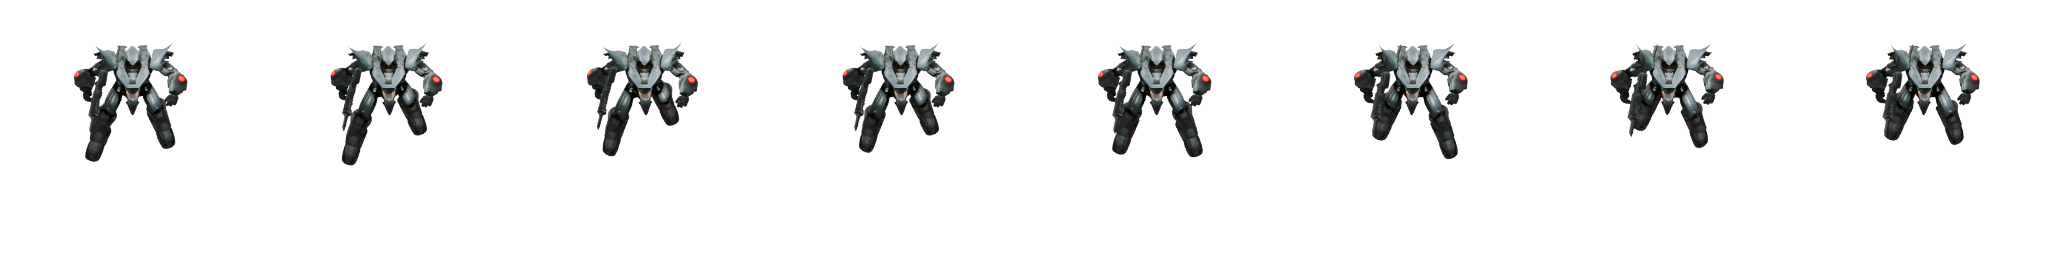
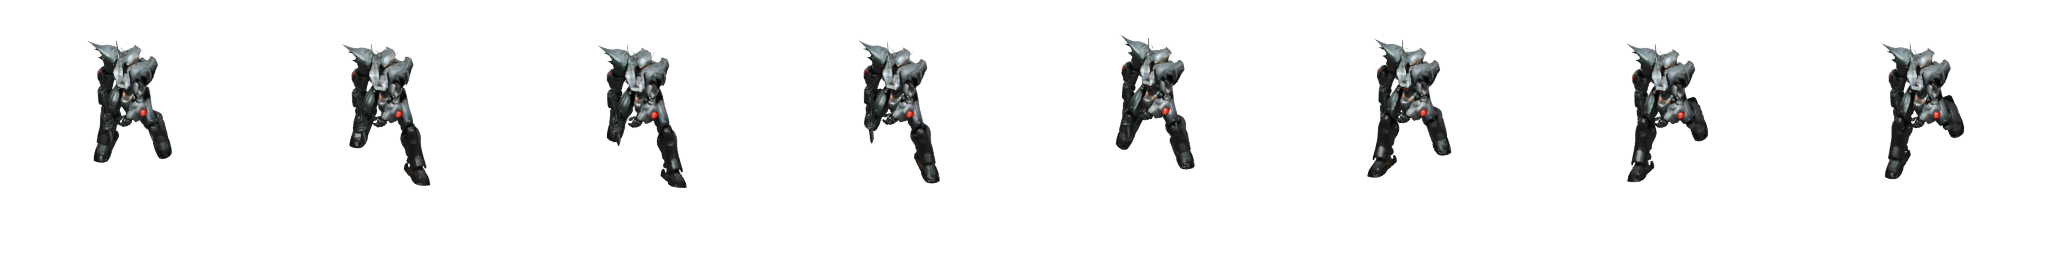
feat: demarche titan/bruiser/vanquisher depuis la bibliotheque Meshy
Demande explicite du patron : « passe par meshy pour donner une demarche
de mecha robot ». Remplace la planche WALK (uniquement — idle/run/attack/
hit/die/melee restent la choregraphie vortex copiee a la main) par une
VRAIE animation de bibliotheque Meshy, pas une formule bpy ecrite a la
main comme jusqu'ici. Recherche via l'endpoint gratuit /v1/animations/
library?search=... : aucune animation nommee "mech"/"robot"/"armor",
mais « Carry Heavy Cannon Forward » (action_id 610, variante in-place)
porte une arme en avant — coherent avec les 3 chassis qui tiennent tous
une arme lourde.

Rig de titan perime (session ancienne, 404 sur l'ancien rig_task_id) :
re-rigge depuis meshy_in/titan/model.glb local via model_url en Data URI
(pas besoin de regenerer, endpoint /v1/rigging documente ce mode) — evite
de re-depenser 30cr d'image-to-3D. bruiser/vanquisher rigges aujourd'hui,
rig_task_id encore valides. tools/bake_walk_mech.py echantillonne les 8
frames de l'action importee (meme camera/framing que le reste du
pipeline) plutot que de coder une pose.

diff --git a/tools/bake_walk_mech.py b/tools/bake_walk_mech.py
@@ -1,0 +1,156 @@
+#!/usr/bin/env python3
+"""
+mecha-forge — remplace la planche WALK (uniquement) de titan/bruiser/vanquisher par la
+demarche de la bibliotheque d'animations Meshy « Carry Heavy Cannon Forward » (action_id 610,
+variante in-place — sans root motion), au lieu de la choregraphie main (copiee de vortex).
+
+🚨 POURQUOI (patron, 24/09) : « passe par meshy pour donner une demarche de mecha robot a
+titan, vanquisher, et bruiser ». Contrairement aux poses precedentes (bpy, formules main —
+cf. build_titan_anims.py, build_bruiser_anims.py, build_vanquisher_anims.py), ceci echantillonne
+une VRAIE animation de la bibliotheque Meshy (capture de mouvement humaine retargetee sur le
+rig), pas une formule trigonometrique ecrite a la main. Recherche via l'endpoint gratuit
+GET /v1/animations/library?search=... : aucune animation "mech"/"robot"/"armor" nommee
+explicitement, mais « Carry Heavy Cannon Forward » (WalkAndRun/Walking) porte une arme en
+avant — coherent avec les 3 chassis, qui tiennent tous une arme lourde.
+
+Seule la planche WALK change. idle/run/attack/hit/die/melee restent la choregraphie vortex
+(build_<nom>_anims.py) — non touchees par ce script.
+
+Usage : python bake_walk_mech.py <chassis>   (attend meshy_in/<chassis>/anim_walk_mech.glb,
+deja telecharge par meshy_client.py animate <rig_task_id> 610 --name <chassis> --label walk_mech)
+"""
+import bpy, sys, os, math, mathutils
+from PIL import Image
+
+CHASSIS = sys.argv[sys.argv.index("--") + 1] if "--" in sys.argv else sys.argv[-1]
+GLB_IN = os.path.abspath("meshy_in/%s/anim_walk_mech.glb" % CHASSIS)
+OUT_DIR = os.path.abspath("game/assets/mecha")
+RES = 256
+FRAMES = 8
+SAMPLES = 16
+EL = 40.0
+
+def setup_scene():
+    bpy.ops.wm.read_factory_settings(use_empty=True)
+    bpy.ops.import_scene.gltf(filepath=GLB_IN)
+    sc = bpy.context.scene
+    sc.render.engine = "CYCLES"
+    sc.cycles.device = "CPU"
+    sc.cycles.samples = SAMPLES
+    sc.cycles.use_denoising = True
+    sc.render.resolution_x = RES
+    sc.render.resolution_y = RES
+    sc.render.film_transparent = True
+    sc.render.image_settings.file_format = "PNG"
+    sc.render.image_settings.color_mode = "RGBA"
+    w = bpy.data.worlds.new("w")
+    sc.world = w
+    w.use_nodes = True
+    bg = w.node_tree.nodes.get("Background")
+    if bg:
+        bg.inputs["Color"].default_value = (0.08, 0.09, 0.13, 1.0)
+        bg.inputs["Strength"].default_value = 0.45
+    def sun(name, e, rot, col=(1, 1, 1)):
+        d = bpy.data.lights.new(name, type="SUN")
+        d.energy = e; d.color = col; d.angle = math.radians(5)
+        o = bpy.data.objects.new(name, d)
+        sc.collection.objects.link(o)
+        o.rotation_euler = tuple(math.radians(a) for a in rot)
+    sun("key", 4.5, (52, 8, -34), (1.0, 0.95, 0.88))
+    sun("fill", 1.8, (66, -6, 46), (0.75, 0.85, 1.0))
+    sun("rim", 4.0, (-38, 0, 160), (0.7, 0.95, 1.0))
+    return sc
+
+def get_armature():
+    for o in bpy.context.scene.objects:
+        if o.type == "ARMATURE":
+            return o
+    raise RuntimeError("No armature found")
+
+def get_meshes():
+    return [o for o in bpy.context.scene.objects if o.type == "MESH"]
+
+def frame_bounds(objs):
+    mn = mathutils.Vector((1e9, 1e9, 1e9))
+    mx = -mn
+    dg = bpy.context.evaluated_depsgraph_get()
+    for o in objs:
+        oe = o.evaluated_get(dg)
+        for c in oe.bound_box:
+            w = oe.matrix_world @ mathutils.Vector(c)
+            for i in range(3):
+                mn[i] = min(mn[i], w[i])
+                mx[i] = max(mx[i], w[i])
+    return mn, mx
+
+def main():
+    sc = setup_scene()
+    arm = get_armature()
+    objs = get_meshes()
+
+    act = arm.animation_data.action if arm.animation_data else None
+    if act is None:
+        raise RuntimeError("no animation action found in %s" % GLB_IN)
+    f0, f1 = act.frame_range
+    print("action:", act.name, "frame_range:", f0, f1)
+
+    def set_frame(t):  # t in [0,1)
+        sc.frame_set(int(round(f0 + (f1 - f0) * t)))
+
+    set_frame(0.0)
+    bpy.context.view_layer.update()
+    mn0, mx0 = frame_bounds(objs)
+    center0 = (mn0 + mx0) * 0.5
+    size = max((mx0 - mn0).x, (mx0 - mn0).y, (mx0 - mn0).z, 1e-3)
+
+    cam_d = bpy.data.cameras.new("cam")
+    cam_d.type = "ORTHO"
+    cam_d.ortho_scale = size * 1.12
+    cam = bpy.data.objects.new("cam", cam_d)
+    sc.collection.objects.link(cam)
+    sc.camera = cam
+    e = math.radians(EL)
+    dist = size * 4.0
+
+    def aim_cam(center, az_deg):
+        a = math.radians(az_deg)
+        cam.location = (
+            center.x + dist * math.cos(e) * math.sin(a),
+            center.y - dist * math.cos(e) * math.cos(a),
+            center.z + dist * math.sin(e),
+        )
+        look = center - mathutils.Vector(cam.location)
+        cam.rotation_euler = look.to_track_quat("-Z", "Y").to_euler()
+
+    tmp_png = os.path.join(OUT_DIR, "_tmp_walkmech.png")
+    DIRS = [("front", 0), ("back", 180), ("left", 90), ("right", -90)]
+
+    print("=== BAKING WALK (Meshy Carry_Heavy_Cannon_Forward) FOR %s ===" % CHASSIS.upper())
+    for dir_name, az in DIRS:
+        tiles = []
+        for f in range(FRAMES):
+            set_frame(f / FRAMES)
+            bpy.context.view_layer.update()
+            mn, mx = frame_bounds(objs)
+            cen = (mn + mx) * 0.5
+            cen.z = center0.z
+            aim_cam(cen, az)
+            sc.render.filepath = tmp_png
+            bpy.ops.render.render(write_still=True)
+            tiles.append(Image.open(tmp_png).convert("RGBA").copy())
+        sheet = Image.new("RGBA", (RES * FRAMES, RES), (0, 0, 0, 0))
+        for k, im in enumerate(tiles):
+            sheet.paste(im, (RES * k, 0), im)
+        out_png = os.path.join(OUT_DIR, "%s_walk_%s.png" % (CHASSIS, dir_name))
+        sheet.save(out_png)
+        frame0 = sheet.crop((0, 0, RES, RES))
+        bbox = frame0.getbbox()
+        h = bbox[3] - bbox[1] if bbox else 0
+        print("  %s: %dpx (%.1f%%)" % (out_png, h, h / float(RES) * 100.0))
+
+    if os.path.exists(tmp_png):
+        os.remove(tmp_png)
+    print("=== DONE %s ===" % CHASSIS)
+
+if __name__ == "__main__":
+    main()
